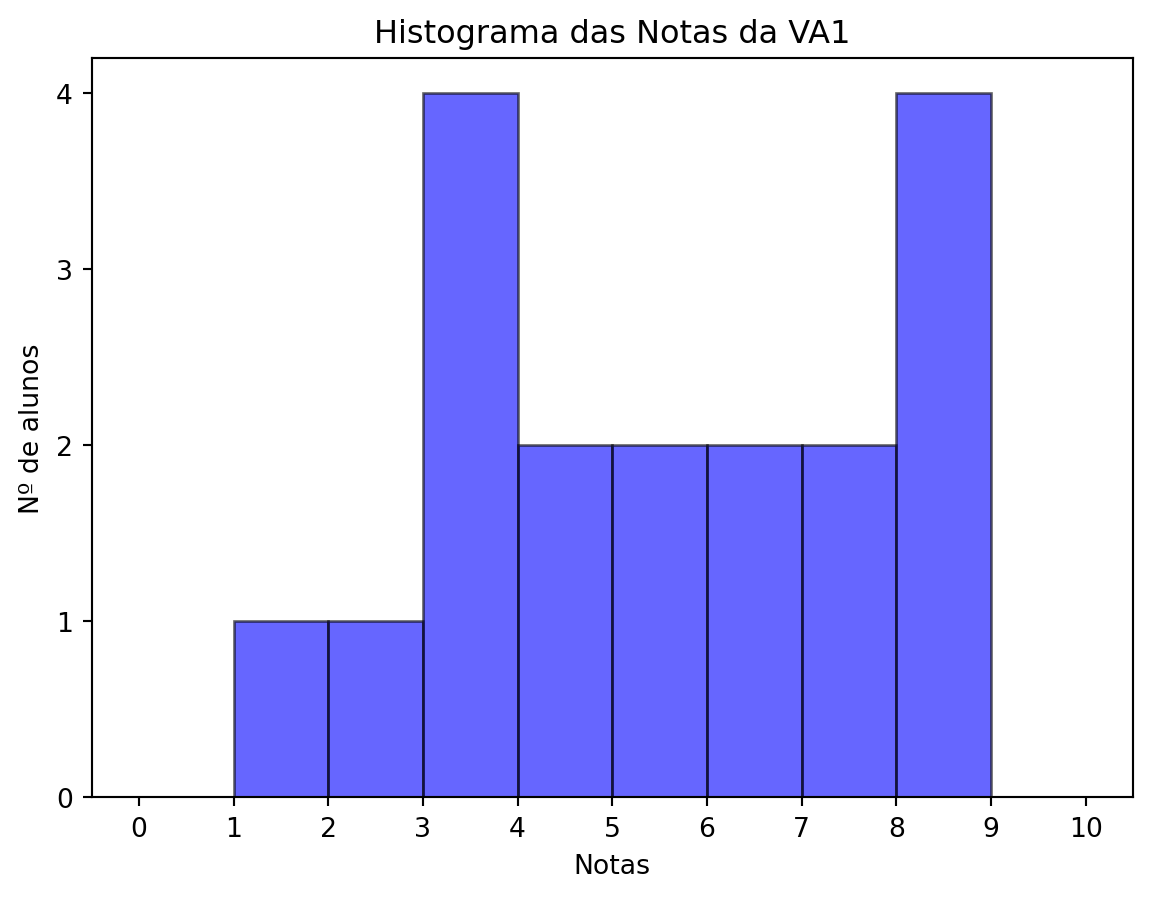
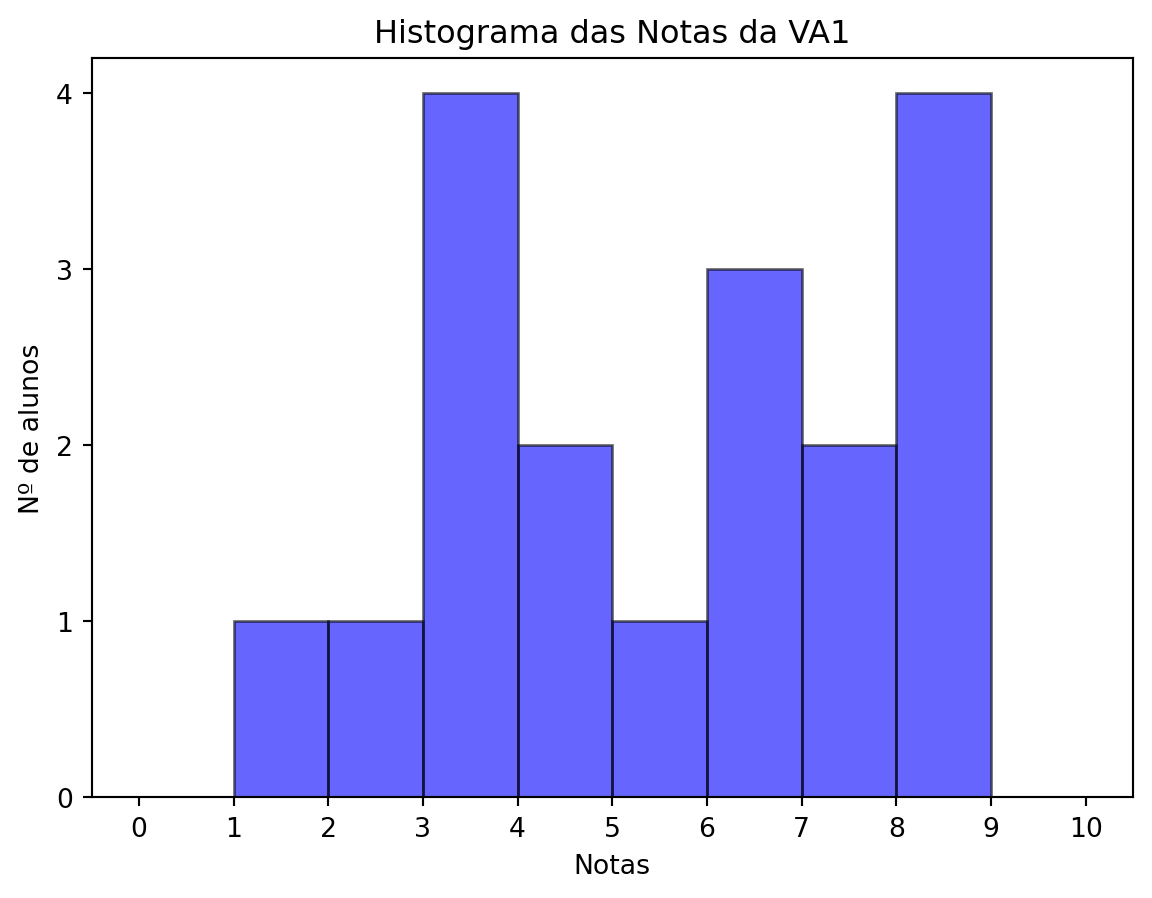
cronograma

Changed region(s): [[0.5312, 0.2806, 0.7188, 0.7171]]

diff --git a/docs/gaal/gaal-2025-2/gaal-2025-2.html b/docs/gaal/gaal-2025-2/gaal-2025-2.html
@@ -496,13 +496,14 @@ Fazer os exercícios desta <a href="../lista-exercicios-GA.pdf">lista de GA plan
 <span class="emoji" data-emoji="pencil">📝</span> . &nbsp; Sex – 12/09 – <span style="color:Blue"> Aula Extra de Exercícios – Sala 05 do ICT </span><br>
 <span style="color:red"> 09 . &nbsp; Seg – 15/09 – VA 1 (Verificação de Aprendizagem) </span> – <a href="../provas/2025-2-va1-turmaK1-gaal-gabarito.pdf">gabarito</a><br>
 10 . &nbsp; Ter – 16/09 – <span style="color:standard"> Coordenadas cartesianas no plano. Espaço Vetorial <span class="math inline">\(\mathbb{R}^2\)</span>. Representação Geométrica. Norma. Regra do paralelogramo. </span><br>
-<span class="emoji" data-emoji="question">❓</span> &nbsp; Sex – 19/09 – <span style="color:Blue"> Atendimento: </span><br>
-11 . &nbsp; Seg – 22/09 – <span style="color:LightGray"> Equações reduzida e segmentária da reta em <span class="math inline">\(\mathbb{R}^2\)</span>. Equação do círculo na origem. </span><br>
-12 . &nbsp; Ter – 23/09 – <span style="color:LightGray"> Cônicas. Equações reduzidas da Elipse, hipérbole e Parábola. </span><br>
-13 . &nbsp; Seg – 29/09 – <span style="color:LightGray"> Cônicas transladadas. Completamento de quadrados. </span><br>
-14 . &nbsp; Ter – 30/09 – <span style="color:LightGray"> Produto escalar no <span class="math inline">\(\mathbb{R}^n\)</span>. Ângulo entre vetores. </span><br>
-15 . &nbsp; Seg – 06/10 – <span style="color:LightGray"> Equação paramétrica da reta. Interpretação vetorial da equação cartesiana da reta em <span class="math inline">\(\mathbb{R}^2\)</span>. </span><br>
-16 . &nbsp; Ter – 07/10 – <span style="color:LightGray"> O espaço vetorial <span class="math inline">\(\mathbb{R}^3\)</span> e representação geométrica. Equação cartesina do Plano em <span class="math inline">\(\mathbb{R}^3\)</span>. </span><br>
+<span class="emoji" data-emoji="question">❓</span> &nbsp; Sex – 19/09 – <span style="color:Blue"> Atendimento: 0 alunos compareceram </span><br>
+11 . &nbsp; Seg – 22/09 – <span style="color:standard"> Equações reduzida e segmentária da reta em <span class="math inline">\(\mathbb{R}^2\)</span>. Distância entre dois pontos. Equação do círculo. </span><br>
+12 . &nbsp; Ter – 23/09 – <span style="color:standard"> Cônicas. Equações reduzidas da Elipse, hipérbole e Parábola. Cônicas transladadas. Completamento de quadrados. </span><br>
+<span class="emoji" data-emoji="question">❓</span> &nbsp; Qua – 24/09 – <span style="color:Blue"> Atendimento: XX alunos compareceram </span><br>
+13 . &nbsp; Seg – 29/09 – <span style="color:LightGray"> Equação paramétrica da reta. Produto escalar no <span class="math inline">\(\mathbb{R}^2\)</span>. Ângulo entre vetores.</span><br>
+14 . &nbsp; Ter – 30/09 – <span style="color:LightGray"> Interpretação vetorial da equação cartesiana da reta em <span class="math inline">\(\mathbb{R}^2\)</span>. </span><br>
+15 . &nbsp; Seg – 06/10 – <span style="color:LightGray"> O espaço vetorial <span class="math inline">\(\mathbb{R}^3\)</span> e representação geométrica. Equação cartesina do Plano em <span class="math inline">\(\mathbb{R}^3\)</span>. </span><br>
+16 . &nbsp; Ter – 07/10 – <span style="color:LightGray"> </span><br>
 <span class="emoji" data-emoji="beach_umbrella">🏖</span> <span style="color:orange"> &nbsp; Dom – 12/10 – Nossa Senhora Aparecida </span><br>
 <span style="color:red"> 17 . &nbsp; Seg – 13/10 – VA 2 (Verificação de Aprendizagem) </span><br>
 </p>
@@ -566,13 +567,13 @@ número de semanas sem os feriados: 16<br>
 <tbody>
 <tr class="odd">
 <td>Notas acima de 6</td>
-<td>8</td>
-<td>44.44 %</td>
+<td>9</td>
+<td>50.0 %</td>
 </tr>
 <tr class="even">
 <td>Notas entre 4 e 6</td>
-<td>4</td>
-<td>22.22 %</td>
+<td>3</td>
+<td>16.67 %</td>
 </tr>
 <tr class="odd">
 <td>Notas abaixo de 4</td>
@@ -587,12 +588,12 @@ número de semanas sem os feriados: 16<br>
 </tbody>
 </table>
 <p>=== Medidas de Tendência Central ===</p>
-<p>Média: 5.38</p>
-<p>Mediana: 5.25</p>
-<p>Média Aparada (10%): 5.44</p>
+<p>Média: 5.44</p>
+<p>Mediana: 5.75</p>
+<p>Média Aparada (10%): 5.51</p>
 <p>=== Forma da Distribuição ===</p>
-<p>Assimetria: -0.20</p>
-<p>Curtose: -1.21</p>
+<p>Assimetria: -0.27</p>
+<p>Curtose: -1.20</p>
 </section>
 </section>
 <section id="cronograma-proposto-incialmente" class="level1" data-number="8">
